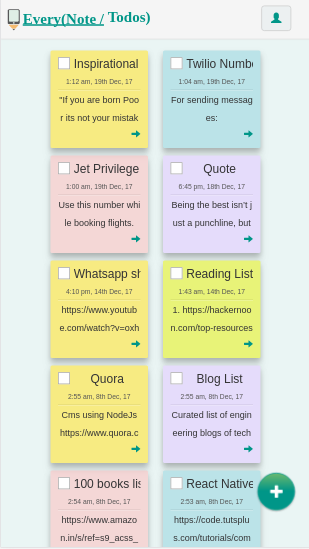
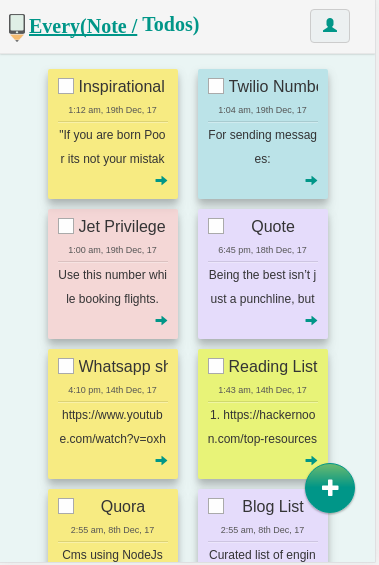
image

diff --git a/public/style/style.css b/public/style/style.css
@@ -352,11 +352,6 @@ img.logo{
     margin-left: -15px;
 }
 
-.demo-page .lead{
-  font-size: 16px !important;
-  line-height: 1.8;
-}
-
 .add-note-fab{
     bottom: 6rem;
     position: fixed;
@@ -759,6 +754,11 @@ img.logo{
   background: #ddf1f1;
 }
 
+.demo-page .lead{
+  font-size: 16px !important;
+  line-height: 1.8;
+}
+
 .demo-page .text-muted{
   color: #343435;
 }
@@ -802,12 +802,16 @@ img.logo{
 }
 
 
+/*media queries*/
 
 @media screen and (max-device-width: 319px) {
   body {
     padding-top: 10px;
   }
 
+  .demo-page .row .mtodo{
+    height: 400px;
+  }
 
   .todo-component-wrapper{
     margin: 20px auto;
@@ -871,6 +875,10 @@ img.logo{
 
   .demo-page .jumbotron .lead {
     text-align: justify;
+  }
+
+  .demo-page .row .mtodo{
+    height: 400px;
   }
 
   .navbar-brand{
